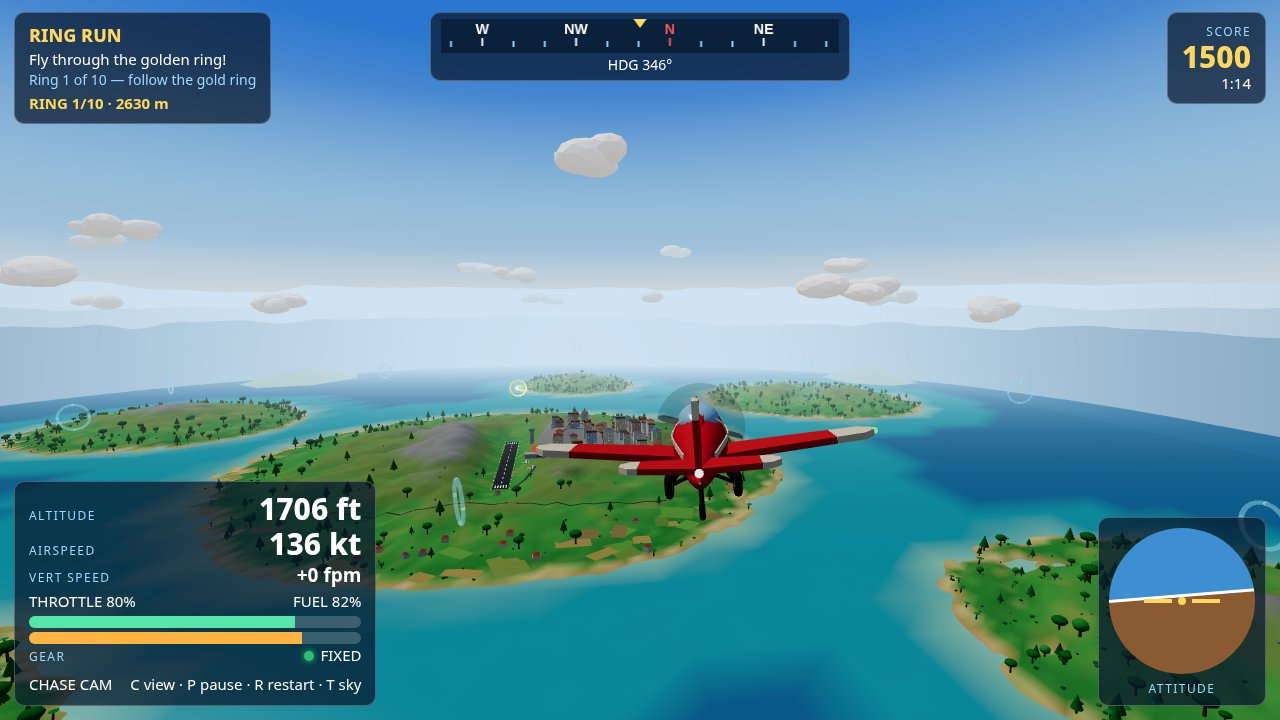
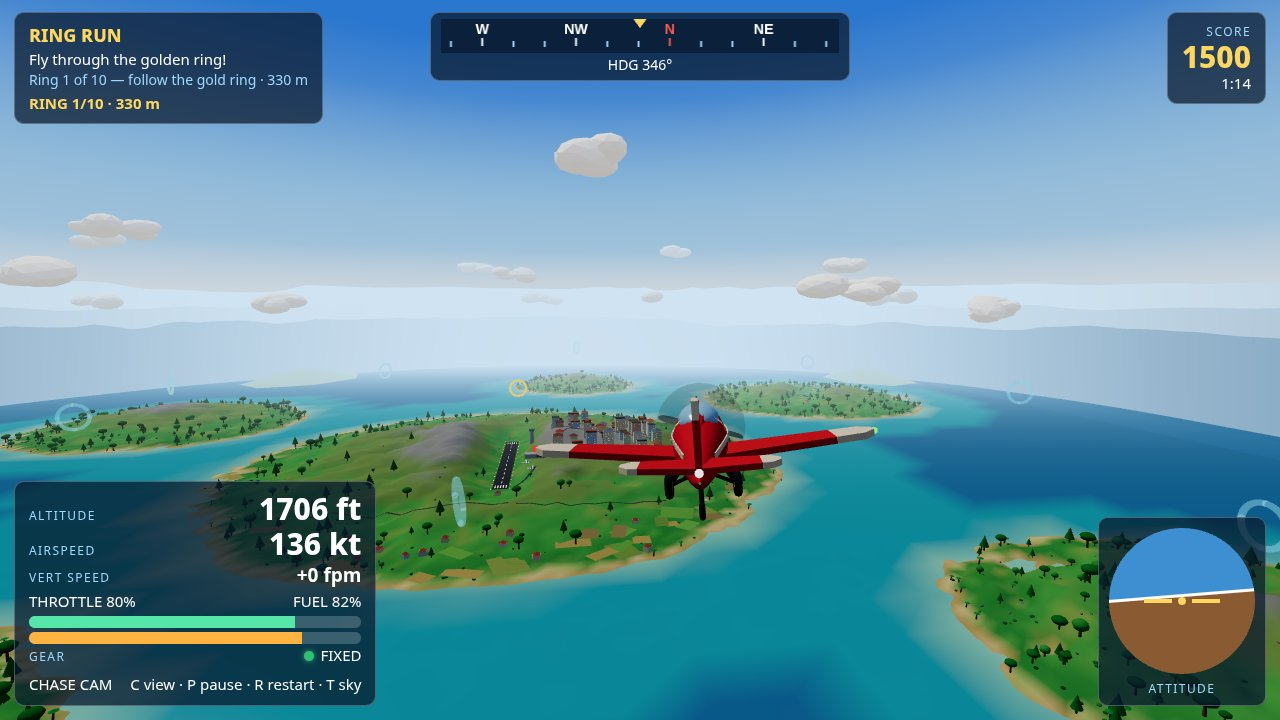
Submit #6 prep: screenshot readability — solid gold ring, one staged 330 m readout, cockpit key hints + level-flight cockpit shot

diff --git a/game/src/missions.js b/game/src/missions.js
@@ -3,8 +3,9 @@
 // Phase 4 (Ring Challenge) adds, on top of the plain gold/blue/green tori:
 //   - readable ring rotation: 4 marker beads on each rim orbit as the ring
 //     spins about the course axis (a bare torus spinning about its own
-//     symmetry axis would be invisible), plus a soft additive halo sprite
-//     on the active ring;
+//     symmetry axis would be invisible). The active ring is a thick solid
+//     gold torus — an earlier additive centre halo washed it out into a
+//     glowing blob, so the halo sprite is built but never shown;
 //   - a pooled particle burst at the ring centre on every pass;
 //   - WebAudio checkpoint sounds (two-note chime on pass, low blip on miss),
 //     created lazily on the first user gesture, fully guarded;
@@ -40,16 +41,21 @@ const MISS_FIRE_DIST = 140;      // recede past this (armed, no pass) => missed
 const PARTICLE_POOL = 160;       // pooled burst particles, allocated once
 const PARTICLES_PER_BURST = 40;
 
-const COL_GOLD = 0xffd75e;
+// Deep, saturated gold: the old pale 0xffd75e washed out to near-white
+// under ACES tone mapping, so the active ring read as a faint glow
+// instead of a solid gold target. This stays unmistakably gold at
+// screenshot distance.
+const COL_GOLD = 0xffb52e;
 const COL_BLUE = 0x4ec9ff;
 const COL_GREEN = 0x57e6a9;
 
-// Marker-bead tint: the ring colour lightened toward white so the orbiting
-// beads read against the torus tube of the same hue.
+// Marker-bead tint: the ring colour lightened only slightly toward
+// white, so the orbiting beads read as subtle markers on a solid ring
+// rather than white segments breaking the torus up.
 const _beadTint = new THREE.Color();
 const _white = new THREE.Color(0xffffff);
 function beadTint(hex) {
-  return _beadTint.setHex(hex).lerp(_white, 0.55).getHex();
+  return _beadTint.setHex(hex).lerp(_white, 0.12).getHex();
 }
 
 export function createMission(kind) {
@@ -259,8 +265,12 @@ function makeHaloTexture() {
 export function buildMissionObjects(scene, mission) {
   clearMissionObjects(scene, mission);
   if (mission.kind === "ring") {
-    const torusGeo = new THREE.TorusGeometry(RING_RADIUS, 3.2, 10, 28);
-    const beadGeo = new THREE.SphereGeometry(3.6, 10, 8);
+    // Thick torus tube (4.6) so the ring reads as a solid band, not a
+    // thin wire, from a few hundred metres out. Beads sit just proud
+    // of the tube (5.0) so the spin stays readable without segmenting
+    // the ring's silhouette.
+    const torusGeo = new THREE.TorusGeometry(RING_RADIUS, 4.6, 12, 36);
+    const beadGeo = new THREE.SphereGeometry(5.0, 10, 8);
     const haloTex = makeHaloTexture();
     RING_COURSE.forEach((p, i) => {
       const isNext = i === mission.nextRing;
@@ -292,14 +302,20 @@ export function buildMissionObjects(scene, mission) {
       }
       group.add(spinner);
 
-      // Glow halo at the centre — only shown on the active ring.
+      // Centre glow halo: kept in the scene graph (the pass-burst
+      // particles still use the same soft texture) but never shown.
+      // At 150 units wide the additive sprite filled the ring's hole
+      // with a white glare blob, so the active ring read as a small
+      // glowing sun instead of a solid gold target ring. The ring
+      // itself — thick gold torus, subtle beads, gentle pulse — is
+      // the marker now.
       const haloMat = new THREE.SpriteMaterial({
         map: haloTex, color: COL_GOLD, transparent: true, opacity: 0.4,
         depthWrite: false, blending: THREE.AdditiveBlending
       });
       const halo = new THREE.Sprite(haloMat);
       halo.scale.set(150, 150, 1);
-      halo.visible = isNext;
+      halo.visible = false;
       group.add(halo);
 
       group.userData = { torusMat, beadMat, spinner, halo, haloMat, phase: i * 0.8 };
@@ -421,7 +437,9 @@ export function updateMission(mission, flight, dt, hud) {
   }
 
   // Ring animation: every ring's beads orbit the rim; the active ring also
-  // pulses in scale and its halo breathes. No allocations in this loop.
+  // pulses gently in scale. (Its old centre halo sprite is never shown —
+  // see buildMissionObjects — so the opacity/scale writes below are
+  // harmless.) No allocations in this loop.
   if (mission.kind === "ring" && mission.rings.length) {
     mission.ringSpin += dt * 0.9;
     const pulse = Math.sin(mission.elapsed * 3);
@@ -452,7 +470,7 @@ function refreshRingColors(mission) {
     u.torusMat.opacity = opacity;
     u.beadMat.color.setHex(beadTint(color));
     u.beadMat.opacity = opacity;
-    u.halo.visible = i === mission.nextRing;
+    u.halo.visible = false; // centre glare stays off — see buildMissionObjects
     ring.scale.set(1, 1, 1);
   });
 }

diff --git a/game/src/main.js b/game/src/main.js
@@ -134,15 +134,23 @@ window.addEventListener("resize", () => {
 });
 
 // --- Screenshot staging ---
+// Every staged shot presents the same Ring-1 approach moment, so the
+// distance readout comes from this one staged source for all four
+// shots (hud.js honours mission.stagedDistM when set; live gameplay
+// never sets it and always shows the real distance). The chase and
+// cockpit vantages below sit a real ~330 m from ring 1; the runway
+// and panorama vantages are composed for their subjects and present
+// the same approach readout, so the four shots agree with each other.
+const STAGED_RING_DIST_M = 330;
+
 function stageShot(name) {
   mission = createMission("ring");
   mission.score = 1500;
   mission.elapsed = 74;
   mission.fuel = 82;
   mission.objective = "Fly through the golden ring!";
-  // No hard-coded distance here: the HUD computes the live distance to the
-  // next ring from the staged position (see hud.js updateMissionMeta).
-  mission.detail = "Ring 1 of 10 — follow the gold ring";
+  mission.detail = "Ring 1 of 10 — follow the gold ring · " + STAGED_RING_DIST_M + " m";
+  mission.stagedDistM = STAGED_RING_DIST_M;
   buildMissionObjects(scene, mission);
   hud.show();
   hideScreens();
@@ -158,12 +166,16 @@ function stageShot(name) {
     flight.verticalSpeed = 1.2; // gentle climb, matches the slight nose-up pitch
     cameras.setMode("chase");
   } else if (name === "cockpit") {
-    // On final approach to Home Runway, panel lit, strip ahead below.
-    flight.position.set(28, 185, 720);
-    flight.heading = -0.04;
-    flight.pitch = -0.22; flight.roll = 0.03;
-    flight.speed = 48; flight.throttle = 0.45; flight.onGround = false;
-    flight.verticalSpeed = -10.5; // descent on approach, matches pitch/speed
+    // Level flight on approach to ring 1: the solid gold ring sits
+    // dead ahead through the windshield at the staged 330 m, panel
+    // lit, instruments stable (vertical speed 0 — the old final-
+    // approach staging read −2067 fpm, like a dive). Altitude 138
+    // puts the ring (centre y=150) clear above the glareshield.
+    flight.position.set(8, 138, -320);
+    flight.heading = 0;
+    flight.pitch = 0.01; flight.roll = 0.02;
+    flight.speed = 55; flight.throttle = 0.65; flight.onGround = false;
+    flight.verticalSpeed = 0; // level flight
     cameras.setMode("cockpit");
     refreshCockpit();
   } else if (name === "runway") {

diff --git a/game/index.html b/game/index.html
@@ -58,7 +58,10 @@
   #hud.cockpit #instruments .mid { font-size: 15px; }
   #hud.cockpit #instruments .row { font-size: 13px; line-height: 1.45; gap: 10px; }
   #hud.cockpit #fuelBarOuter, #hud.cockpit #throttleBarOuter { height: 8px; }
-  #hud.cockpit .keyHints { display: none; }
+  /* Key hints stay visible in cockpit view, wrapped onto their own
+     line under the view label so the narrow strip keeps its width. */
+  #hud.cockpit #viewRow { flex-wrap: wrap; }
+  #hud.cockpit .keyHints { flex-basis: 100%; margin-top: 2px; font-size: 11.5px; color: #9fd8ff; }
   #hud.cockpit #horizonWrap { display: none; }
   #hud.cockpit #missionBox { max-width: 272px; padding: 8px 11px; }
   #hud.cockpit #missionTitle { font-size: 16px; }

diff --git a/game/src/hud.js b/game/src/hud.js
@@ -143,7 +143,13 @@ export function createHud() {
       if (mission.nextRing < total) {
         const p = RING_COURSE[mission.nextRing];
         _target.set(p.x, p.y, p.z);
-        setText(distVal, Math.round(flight.position.distanceTo(_target)) + " m");
+        // Screenshot staging (main.js stageShot) may pin one staged
+        // approach distance so all staged shots agree; live gameplay
+        // never sets stagedDistM and always shows the real distance.
+        const distM = mission.stagedDistM != null
+          ? mission.stagedDistM
+          : Math.round(flight.position.distanceTo(_target));
+        setText(distVal, distM + " m");
       } else {
         setText(distVal, "—");
       }
